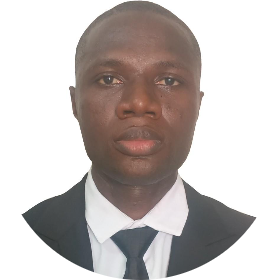
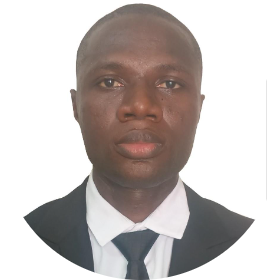
feat: added filter and sort

diff --git a/src/Summaries.Infrastructure/Identity/IdentityService.cs b/src/Summaries.Infrastructure/Identity/IdentityService.cs
@@ -139,16 +139,11 @@ internal sealed class IdentityService(
         return true;
     }
 
-
     public async Task<UserProfileDto?> GetProfileAsync(
         Guid userId, CancellationToken cancellationToken)
     {
         var user = await _userManager.FindByIdAsync(userId.ToString());
-        if (user is null)
-        {
-            return null;
-        }
-        return new UserProfileDto(user.Id, user.Email!, user.FirstName, user.LastName, user.CreatedAtUtc, user.AvatarUrl);
+        return user?.ToDto();
     }
 
     public async Task<IReadOnlyList<UserProfileDto>> GetAllUsersAsync(
@@ -157,7 +152,7 @@ internal sealed class IdentityService(
         cancellationToken.ThrowIfCancellationRequested();
         return await _userManager.Users
             .OrderBy(u => u.Email)
-            .Select(u => new UserProfileDto(u.Id, u.Email!, u.FirstName, u.LastName, u.CreatedAtUtc, u.AvatarUrl))
+            .Select(u => u.ToDto())
             .ToListAsync(cancellationToken);
     }
 
@@ -168,7 +163,7 @@ internal sealed class IdentityService(
         var idList = userIds.Distinct().ToList();
         var users = await _userManager.Users
             .Where(u => idList.Contains(u.Id))
-            .Select(u => new UserProfileDto(u.Id, u.Email!, u.FirstName, u.LastName, u.CreatedAtUtc, u.AvatarUrl))
+            .Select(u => u.ToDto())
             .ToListAsync(cancellationToken);
         return users.ToDictionary(u => u.Id);
     }

diff --git a/src/Summaries.Application/Features/Admin/Shared/DTOs/AdminDtos.cs b/src/Summaries.Application/Features/Admin/Shared/DTOs/AdminDtos.cs
@@ -5,7 +5,13 @@ namespace Summaries.Application.Features.Admin.Shared.DTOs;
 public sealed record BookReadingEntryDto(
     int BookId, string Title, string Author,
     BookStatus Status, decimal? Rating,
-    DateTimeOffset? DateStarted, DateTimeOffset? DateRead);
+    DateTimeOffset? DateStarted, DateTimeOffset? DateRead)
+{
+    public double? ReadingDurationHours =>
+        DateStarted.HasValue && DateRead.HasValue
+            ? (DateRead.Value - DateStarted.Value).TotalHours
+            : null;
+}
 
 public sealed record UserReadingHistoryDto(
     Guid UserId, string Email, string FirstName, string LastName,
@@ -14,7 +20,13 @@ public sealed record UserReadingHistoryDto(
 public sealed record ReaderEntryDto(
     Guid UserId, string Email, string FirstName, string LastName,
     BookStatus Status, decimal? Rating,
-    DateTimeOffset? DateStarted, DateTimeOffset? DateRead);
+    DateTimeOffset? DateStarted, DateTimeOffset? DateRead)
+{
+    public double? ReadingDurationHours =>
+        DateStarted.HasValue && DateRead.HasValue
+            ? (DateRead.Value - DateStarted.Value).TotalHours
+            : null;
+}
 
 public sealed record BookReadersDto(
     int BookId, string Title, string Author,

diff --git a/src/Summaries.Application/Features/Authentication/Commands/RefreshTokenCommand/RefreshTokenCommandHandler.cs b/src/Summaries.Application/Features/Authentication/Commands/RefreshTokenCommand/RefreshTokenCommandHandler.cs
@@ -3,6 +3,7 @@ using Summaries.Application.Abstractions.Authentication;
 using Summaries.Application.Common.Primitives;
 using Summaries.Application.Features.Authentication.Shared.DTOs;
 using Summaries.Application.Features.Authentication.Shared.Errors;
+using Summaries.Application.Features.Authentication.Shared.Mappings;
 
 namespace Summaries.Application.Features.Authentication.Commands.RefreshTokenCommand;
 
@@ -20,10 +21,6 @@ public sealed class RefreshTokenCommandHandler(IIdentityService identityService)
             return Result<AuthResultDto>.Failure(AuthErrors.RefreshTokenInvalid());
         }
 
-        return Result<AuthResultDto>.Success(
-            new AuthResultDto(
-                result.AccessToken, result.RefreshToken,
-                result.AccessTokenExpiresAtUtc, result.RefreshTokenExpiresAtUtc,
-                result.UserId, result.Email, result.DisplayName, result.Roles, result.AvatarUrl));
+        return Result<AuthResultDto>.Success(result.ToDto());
     }
 }

diff --git a/src/Summaries.Application/Features/Authentication/Commands/LoginCommand/LoginCommandHandler.cs b/src/Summaries.Application/Features/Authentication/Commands/LoginCommand/LoginCommandHandler.cs
@@ -3,6 +3,7 @@ using Summaries.Application.Abstractions.Authentication;
 using Summaries.Application.Common.Primitives;
 using Summaries.Application.Features.Authentication.Shared.DTOs;
 using Summaries.Application.Features.Authentication.Shared.Errors;
+using Summaries.Application.Features.Authentication.Shared.Mappings;
 
 namespace Summaries.Application.Features.Authentication.Commands.LoginCommand;
 
@@ -20,10 +21,6 @@ public sealed class LoginCommandHandler(IIdentityService identityService)
             return Result<AuthResultDto>.Failure(AuthErrors.InvalidCredentials());
         }
 
-        return Result<AuthResultDto>.Success(
-            new AuthResultDto(
-                result.AccessToken, result.RefreshToken,
-                result.AccessTokenExpiresAtUtc, result.RefreshTokenExpiresAtUtc,
-                result.UserId, result.Email, result.DisplayName, result.Roles, result.AvatarUrl));
+        return Result<AuthResultDto>.Success(result.ToDto());
     }
 }

diff --git a/src/Summaries.Application/Features/Authentication/Shared/Mappings/AuthentitcationMappings.cs b/src/Summaries.Application/Features/Authentication/Shared/Mappings/AuthentitcationMappings.cs
@@ -1,0 +1,21 @@
+using Summaries.Application.Abstractions.Authentication;
+using Summaries.Application.Features.Authentication.Shared.DTOs;
+
+namespace Summaries.Application.Features.Authentication.Shared.Mappings;
+
+public static class AuthenticationMappings
+{
+    public static AuthResultDto ToDto(this AuthenticationResult result)
+    {
+        return new AuthResultDto(
+            result.AccessToken,
+            result.RefreshToken,
+            result.AccessTokenExpiresAtUtc,
+            result.RefreshTokenExpiresAtUtc,
+            result.UserId,
+            result.Email,
+            result.DisplayName,
+            result.Roles,
+            result.AvatarUrl);
+    }
+}

diff --git a/src/Summaries.Infrastructure/Identity/UserMappings.cs b/src/Summaries.Infrastructure/Identity/UserMappings.cs
@@ -1,0 +1,17 @@
+using Summaries.Application.Features.Users.Shared.DTOs;
+
+namespace Summaries.Infrastructure.Identity;
+
+internal static class UserMappings
+{
+    public static UserProfileDto ToDto(this ApplicationUser user)
+    {
+        return new UserProfileDto(
+            user.Id,
+            user.Email!,
+            user.FirstName,
+            user.LastName,
+            user.CreatedAtUtc,
+            user.AvatarUrl);
+    }
+}

diff --git a/src/Summaries.API/Controllers/V1/AuthController.cs b/src/Summaries.API/Controllers/V1/AuthController.cs
@@ -17,7 +17,6 @@ using Summaries.Application.Features.Authentication.Commands.ChangePassword;
 
 namespace Summaries.API.Controllers.V1;
 
-[ApiVersion(1.0)]
 public sealed class AuthController(ISender sender, IUrlBuilder urlBuilder) : V1ControllerBase
 {
     [HttpPost("register")]

diff --git a/src/Summaries.API/Controllers/V1/AdminController.cs b/src/Summaries.API/Controllers/V1/AdminController.cs
@@ -10,7 +10,6 @@ using Summaries.Application.Features.Admin.Queries.GetUserReadingHistory;
 
 namespace Summaries.API.Controllers.V1;
 
-[ApiVersion(1.0)]
 [Authorize(Roles = "Admin")]
 public sealed class AdminController(ISender sender) : V1ControllerBase
 {

diff --git a/src/Summaries.API/Controllers/V1/UsersController.cs b/src/Summaries.API/Controllers/V1/UsersController.cs
@@ -14,7 +14,6 @@ using Summaries.Application.Features.Users.Commands.RemoveAvatar;
 
 namespace Summaries.API.Controllers.V1;
 
-[ApiVersion(1.0)]
 [Authorize]
 public sealed class UsersController(ISender sender, IUrlBuilder urlBuilder) : V1ControllerBase
 {

diff --git a/src/Summaries.API/Controllers/V1/BooksController.cs b/src/Summaries.API/Controllers/V1/BooksController.cs
@@ -16,7 +16,6 @@ using Microsoft.AspNetCore.Authorization;
 
 namespace Summaries.API.Controllers.V1;
 
-[ApiVersion(1.0)]
 [Authorize]
 public sealed class BooksController(
     ISender sender)
